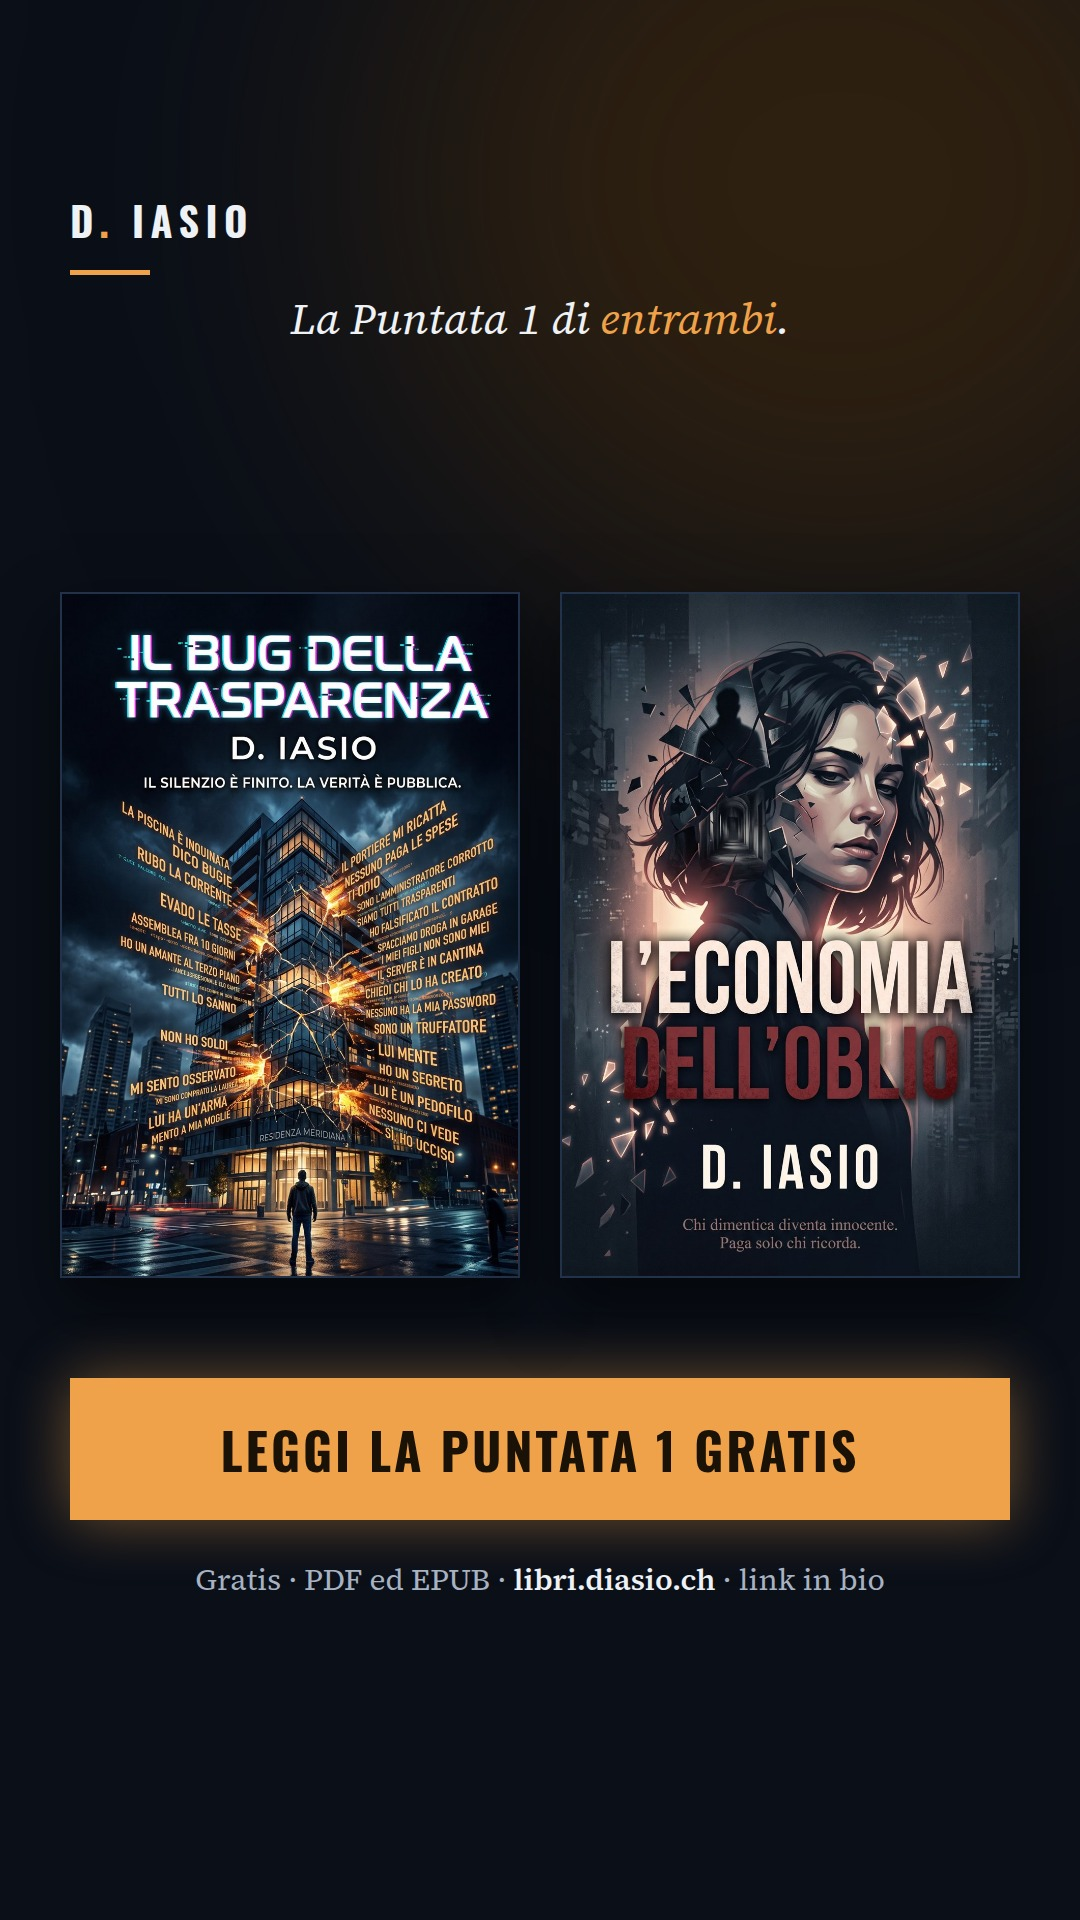
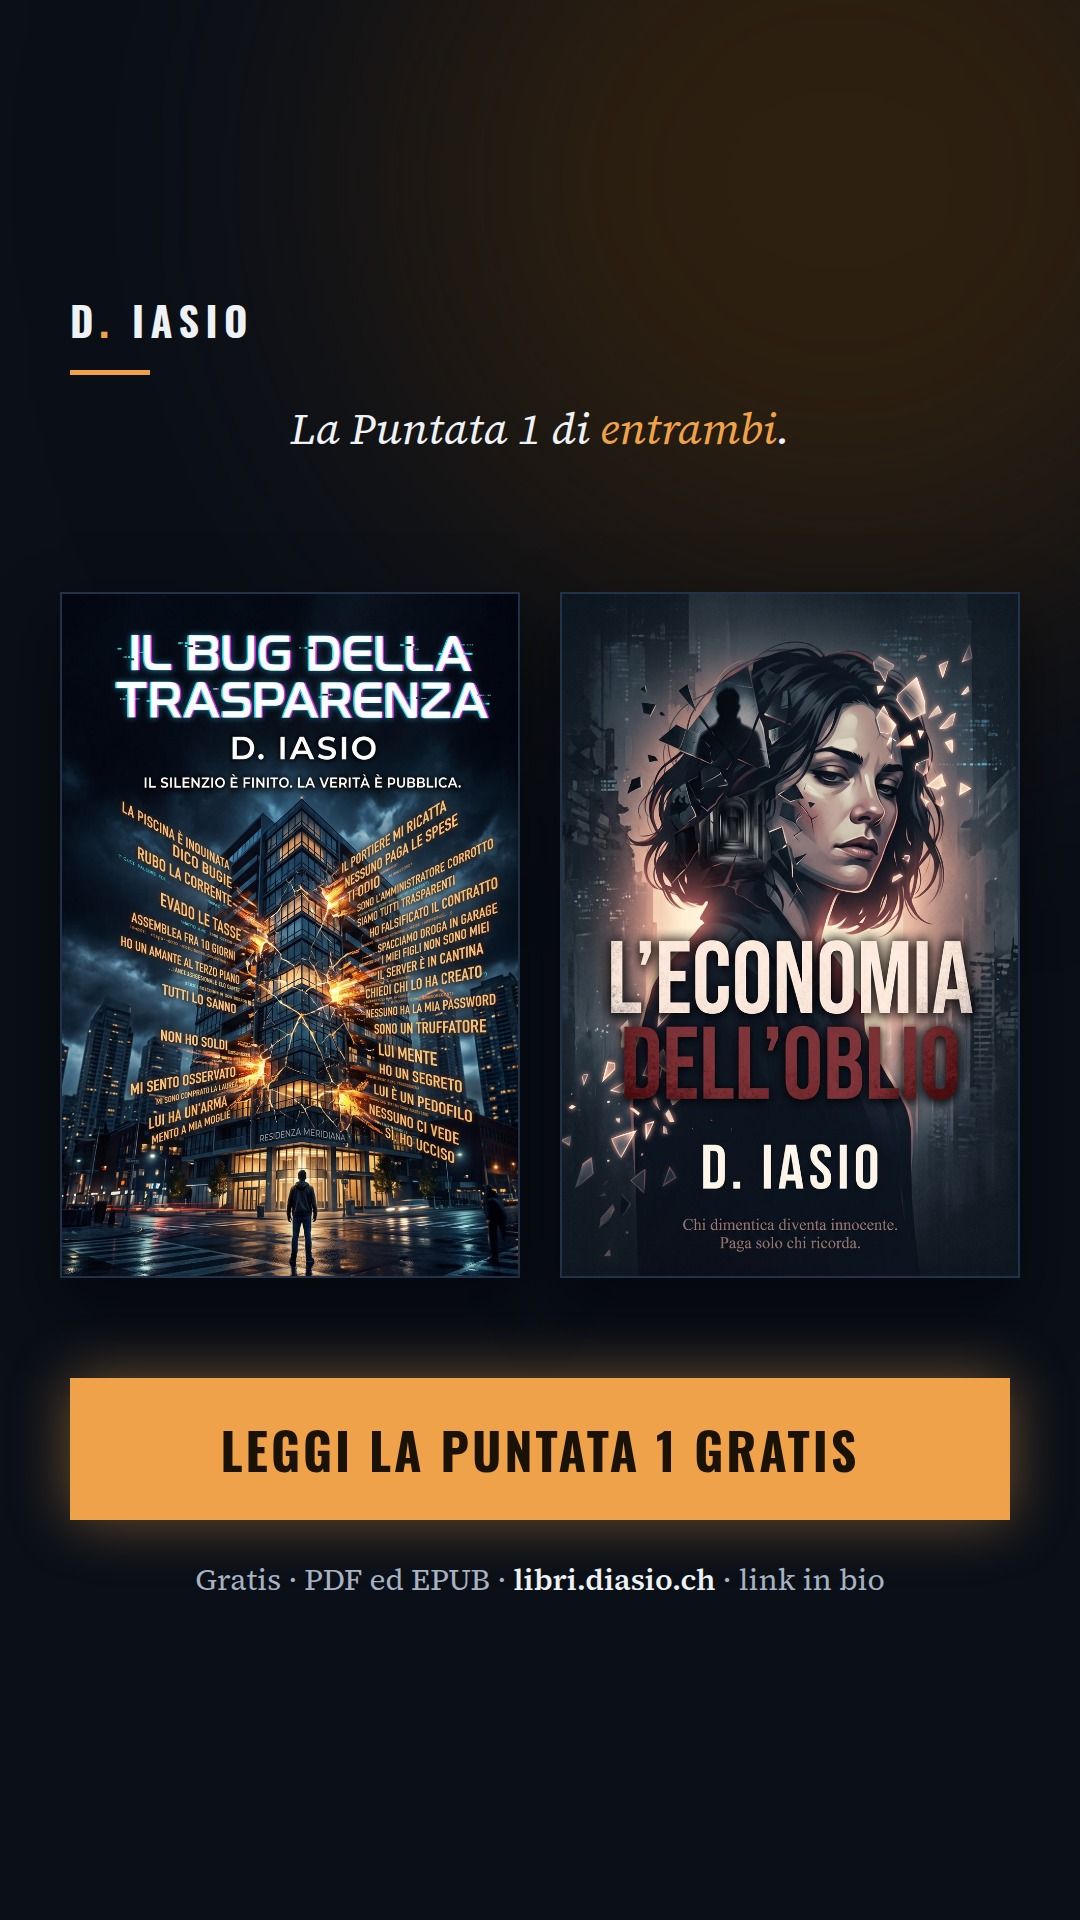
Social: abbassa il nome D. IASIO sotto la zona dell'interfaccia (Reel e Storie)
Nei Reel il marchio passa da y=150 a y=290 (fuori dalla fascia in cui Instagram e Facebook mostrano «Reels»); copertina, titolo e invito sono ristretti e riallineati. Nelle Storie marchio e riga scendono da 190/270 a 290/370 e il contenuto parte da 470. Le 13 Storie sono rigenerate.

Claude-Session: https://claude.ai/code/session_01BCEVXXzFXSPDMEEuBo2UPa

diff --git a/social/reels-src/index.html b/social/reels-src/index.html
@@ -31,12 +31,12 @@
               background: radial-gradient(circle, rgba(240,162,74,.30) 0%, rgba(120,72,24,.16) 38%, rgba(10,15,24,0) 68%); }
       #vignette { position: absolute; inset: 0; background: radial-gradient(ellipse at 50% 45%, rgba(10,15,24,0) 40%, rgba(5,8,14,.72) 100%); }
 
-      #brand { position: absolute; left: 90px; top: 150px; font-family: "Oswald", sans-serif; font-weight: 700; font-size: 46px; letter-spacing: .28em; text-transform: uppercase; }
+      #brand { position: absolute; left: 90px; top: 290px; font-family: "Oswald", sans-serif; font-weight: 700; font-size: 46px; letter-spacing: .28em; text-transform: uppercase; }
       #brand span { color: var(--accent); }
-      #brand-rule { position: absolute; left: 90px; top: 226px; width: 96px; height: 6px; background: var(--accent); transform-origin: left center; }
+      #brand-rule { position: absolute; left: 90px; top: 366px; width: 96px; height: 6px; background: var(--accent); transform-origin: left center; }
 
-      #qmark { position: absolute; left: 82px; top: 380px; font-family: "Source Serif 4", serif; font-style: italic; font-size: 240px; line-height: 1; color: var(--accent); opacity: .9; }
-      #quote-wrap { position: absolute; left: 90px; right: 90px; top: 690px; height: 660px; display: flex; flex-direction: column; justify-content: center; }
+      #qmark { position: absolute; left: 82px; top: 440px; font-family: "Source Serif 4", serif; font-style: italic; font-size: 240px; line-height: 1; color: var(--accent); opacity: .9; }
+      #quote-wrap { position: absolute; left: 90px; right: 90px; top: 730px; height: 640px; display: flex; flex-direction: column; justify-content: center; }
       #quote { display: flex; flex-wrap: wrap; column-gap: .28em; row-gap: .12em; font-style: italic; font-weight: 400; line-height: 1.18; color: var(--ink); }
       #quote .w { display: inline-block; will-change: transform, opacity, filter; }
       #quote .w.em { color: var(--accent); }
@@ -44,11 +44,11 @@
       #who::before { content: ""; display: inline-block; width: 56px; height: 3px; background: var(--accent); vertical-align: middle; margin-right: 22px; }
 
       #reveal { position: absolute; inset: 0; }
-      #cover-wrap { position: absolute; left: 50%; top: 330px; width: 540px; height: 805px; margin-left: -270px; }
+      #cover-wrap { position: absolute; left: 50%; top: 450px; width: 440px; height: 656px; margin-left: -220px; }
       #cover { width: 100%; height: 100%; object-fit: cover; border-radius: 6px; box-shadow: 0 40px 120px rgba(0,0,0,.65), 0 0 0 2px var(--line), 0 0 160px rgba(240,162,74,.22); }
-      #genre { position: absolute; left: 90px; right: 90px; top: 1190px; text-align: center; font-family: "Oswald", sans-serif; font-weight: 500; font-size: 30px; letter-spacing: .2em; text-transform: uppercase; color: var(--accent); }
-      #title { position: absolute; left: 90px; right: 90px; top: 1246px; text-align: center; font-family: "Oswald", sans-serif; font-weight: 700; font-size: 74px; line-height: 1.08; text-transform: uppercase; }
-      #cta { position: absolute; left: 90px; right: 90px; top: 1440px; display: flex; flex-direction: column; align-items: center; gap: 22px; }
+      #genre { position: absolute; left: 90px; right: 90px; top: 1150px; text-align: center; font-family: "Oswald", sans-serif; font-weight: 500; font-size: 30px; letter-spacing: .2em; text-transform: uppercase; color: var(--accent); }
+      #title { position: absolute; left: 90px; right: 90px; top: 1204px; text-align: center; font-family: "Oswald", sans-serif; font-weight: 700; font-size: 74px; line-height: 1.08; text-transform: uppercase; }
+      #cta { position: absolute; left: 90px; right: 90px; top: 1380px; display: flex; flex-direction: column; align-items: center; gap: 22px; }
       #pill { white-space: nowrap; padding: 30px 56px; border-radius: 12px; background: var(--accent); color: var(--accent-ink); font-family: "Oswald", sans-serif; font-weight: 700; font-size: 44px; letter-spacing: .08em; text-transform: uppercase; box-shadow: 0 18px 60px rgba(240,162,74,.35); }
       #url { font-family: "Source Serif 4", serif; font-size: 36px; color: var(--muted); }
       #url b { color: var(--ink); font-weight: 600; }

diff --git a/social/tools/carousel.py b/social/tools/carousel.py
@@ -87,10 +87,10 @@ body{width:1080px;height:1350px;background:var(--bg);color:var(--ink);font-famil
 .hq .big{font-size:96px}.hq .kick{margin-bottom:22px}.hq .sub{margin-top:26px;font-size:38px}
 .hq .who{margin-top:30px}
 body.story{height:1920px}
-.story .brand{top:190px}.story .rule{top:270px}.story .pg,.story .swipe{display:none}
-.story .main{top:400px;bottom:520px}.story .q{font-size:88px}.story .q.m{font-size:76px}.story .q.s{font-size:64px}
+.story .brand{top:290px}.story .rule{top:370px}.story .pg,.story .swipe{display:none}
+.story .main{top:470px;bottom:520px}.story .q{font-size:88px}.story .q.m{font-size:76px}.story .q.s{font-size:64px}
 .story .big{font-size:132px}.story .sub{font-size:44px}.story .foot{bottom:250px}
-.story .btn{bottom:400px}.story .btnsub{bottom:320px}.story .tagline{top:290px}
+.story .btn{bottom:400px}.story .btnsub{bottom:320px}.story .tagline{top:400px}
 .story .cv{width:420px}.story .covers,.story .one{margin-top:0}
 .tagline{position:absolute;left:70px;right:70px;top:190px;text-align:center;font:italic 400 44px/1.3 'Source Serif 4'}.tagline b{color:var(--amb);font-weight:400}
 """
